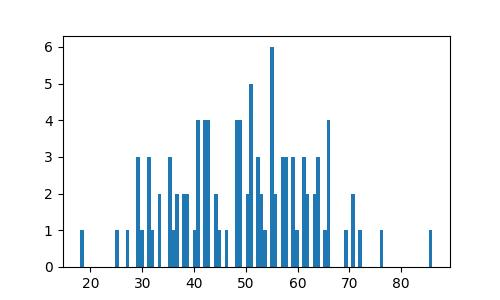
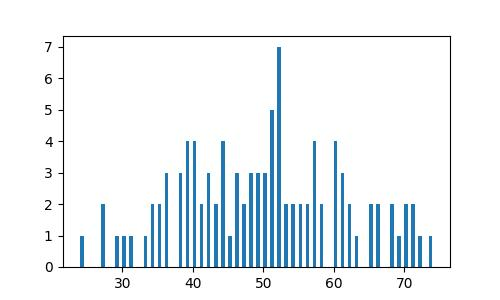
Настроен запуск в докерфайле, написана инструкция

diff --git a/warehouse/busines_logic.py b/warehouse/busines_logic.py
@@ -54,10 +54,6 @@ def upload_100_technic(*, session: Session):
         session.add(warehouses[i])
 
     session.commit()
-
-    print(w1.id)
-    print(w1.invoices[0].items)
-    print(len(w1.invoices[0].items))
     session.close()
 
 
@@ -175,9 +171,9 @@ def get_diagram(*, session: Session):
     remains = get_all_remains_for_technics(session=session)
     lst = [quantity for _, quantity in remains.items()]
 
-    draw(lst, len(lst), 'static/1.jpg')
-    draw(lst, 5, 'static/2.jpg')
-    draw(lst, 10, 'static/3.jpg')
+    draw(lst, len(lst), './warehouse/static/1.jpg')
+    draw(lst, 5, './warehouse/static/2.jpg')
+    draw(lst, 10, './warehouse/static/3.jpg')
 
 
 def init_db():
@@ -187,8 +183,9 @@ def init_db():
 
 
 if __name__ == '__main__':
+    pass
     # models.Base.metadata.create_all(engine)
-    s = Session(engine)
+    #s = Session(engine)
     #upload_100_technic()
     # print(get_remains_for_all_warehouse(session=s))
     """for x, rem, price, count in get_remains_for_all_warehouse(session=s):

diff --git a/warehouse/main.py b/warehouse/main.py
@@ -1,6 +1,6 @@
 import os.path
 
-from flask import Flask
+from flask import Flask, url_for
 
 from views import render_warehouse_remains, render_technic_remains, render_histogram
 from busines_logic import init_db
@@ -38,4 +38,4 @@ def get_histogram():
 if __name__ == '__main__':
     if not os.path.exists("sqlite3.db"):
         init_db()
-    app.run(debug=True)
+    app.run(host="0.0.0.0", port=5000)

diff --git a/warehouse/views.py b/warehouse/views.py
@@ -5,7 +5,7 @@ from busines_logic import (
     get_all_remains_for_technics,
     get_diagram)
 env = Environment(
-    loader=FileSystemLoader('./static')
+    loader=FileSystemLoader('warehouse/static')
 )
 
 

diff --git a/readme.md b/readme.md
@@ -1,0 +1,44 @@
+# Project Warehouse
+
+Приложение для учета техники на складе.
+
+Реализованы следующие адреса: 
+* http://172.17.0.1:5000/warehouse-report - Вывод отчета о технике в наличии по всем складам
+* http://172.17.0.1:5000/technic-report - Вывод отчета о количестве единиц техники 
+* http://172.17.0.1:5000/technic-report/histogram - Вывод гистограммы частот остатков техники
+
+Для загрузки образа и запуска достаточно выполнить команды: 
+```bash
+sudo docker pull kamomem/warehouse
+sudo docker run kamomem/warehouse
+```
+В этом случае произойдет загрузка образа с репозитория docker.
+В нем образ расположен по адресу https://hub.docker.com/r/kamomem/warehouse
+
+Для сборки и запуска использовались следующие команды:
+```bash
+sudo docker build -t kamomem/warehouse .
+sudo dockerun -p 8888:5000 -it --rm  warehouse
+```
+
+При запуске контейнера производится создание базы данных, затем создание и загрузка стартового набора данных
+для начала работы. Создаются 5 сотрудников, 5 складов и 100 единиц техники.
+Затем, генерируется нормальное распределение количества техники в диапазоне от 0 до 100 для каждой единицы.
+Техника случайным образом распределяется между накладными и распределяется по складам. 
+
+Нормальное распределение генерируется случайным образом. При этом идеальное нормальное  
+распределение количества товаров гарантируется только при большом количестве товаров. 
+При заданном параметре в 100 единиц различной техники возможны отклонения.   
+
+Вариант гистограммы частот по количеству техники может выглядеть следующим образом:
+![](/home/sir/Python_projects/warehouse/warehouse/static/1.jpg)
+
+Если группировать гистограмму до 10 столбцов то получится:
+![](/home/sir/Python_projects/warehouse/warehouse/static/3.jpg)
+
+А если  до 5 столбцов то:
+![](/home/sir/Python_projects/warehouse/warehouse/static/2.jpg)
+
+Таким образом количество товаров генерируется действительно по закону
+нормального распределения, однако присутствует погрешность из-за низкого числа единиц техники.
+
